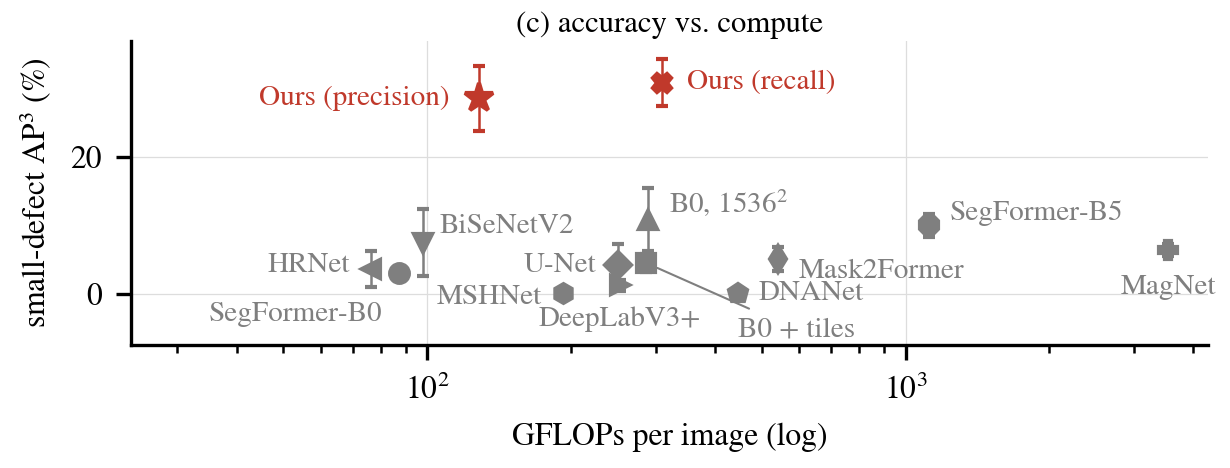
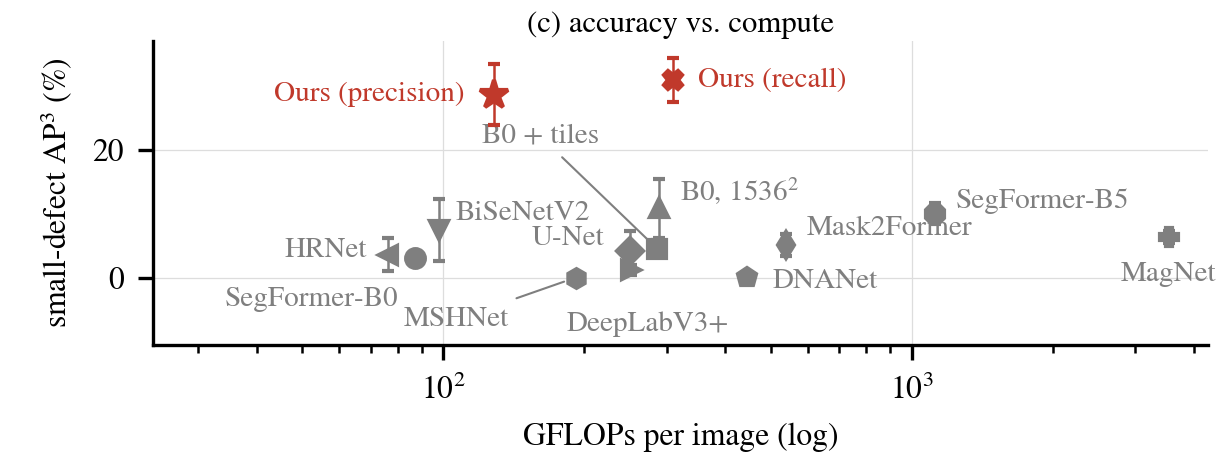
Fig. 1 and Fig. 3 scripts/figures as in the paper

diff --git a/tools/figures/fig1_framework.py b/tools/figures/fig1_framework.py
@@ -35,7 +35,8 @@ plt.rcParams.update({"font.family": "STIXGeneral", "mathtext.fontset": "stix", "
 INK, MUTED = "#1f1f1f", "#6b6b6b"
 LOW, NAT, SIZE, REP, GT = "#2f66b3", "#7a4fc4", "#e07b1a", "#c8323c", "#2ca25f"
 ALL = "#8c510a"  # s3,4 targets (all defects); kept apart from the GT green
-NETF = "#e3ecf8"
+NETF = "#eceef1"
+NETC = "#4d5563"  # the one shared network: neutral, identical everywhere (paths carry the view colour)
 DATA = "outputs/figures/fig1_data"
 
 
@@ -75,7 +76,7 @@ def heat(p, gamma=1.0):
     return plt.get_cmap("inferno")(np.clip(p, 0, 1) ** gamma)[..., :3]
 
 
-def net(ax, x, y, s=1.0, c=LOW, label=True, stages=True):
+def net(ax, x, y, s=1.0, c=NETC, label=True, stages=True):
     """Shared segmenter icon: 4 encoder stages (shrinking), all-MLP decoder, main head."""
     hs = [0.62, 0.50, 0.38, 0.28]
     xx = x
@@ -176,21 +177,21 @@ def draw(out_dir):
     # one shared network
     nx, ny = 1.55, 2.98
     xe = net(ax, nx, ny, 0.95, label=False)
-    ax.text((nx + xe) / 2, ny + 0.38, "one MiT-B0 segmenter for both views", ha="center", va="bottom", fontsize=LAB, color=LOW)
+    ax.text((nx + xe) / 2, ny + 0.38, "one MiT-B0 segmenter for both views", ha="center", va="bottom", fontsize=LAB, color=NETC)
     seg(ax, [(wx + ww, wy + wh / 2), (nx - 0.03, wy + wh / 2)], c=LOW)
     seg(ax, [(cx_n + cs_n, cy_n + cs_n * 0.8), (1.43, cy_n + cs_n * 0.8), (1.43, ny - 0.12), (nx - 0.03, ny - 0.12)],
         c=NAT)
     # main head (logit z) -> gated logit fusion with the stage-head logits z1-z4 -> size-aware loss on the fused logit
     hb_x, hb_w = xe + 0.08, 0.30
-    rbox(ax, hb_x, ny - 0.11, hb_w, 0.22, fc=NETF, ec=LOW)
-    ax.text(hb_x + hb_w / 2, ny, "head", ha="center", va="center", fontsize=SMALL, color=LOW, zorder=5)
-    seg(ax, [(xe, ny), (hb_x - 0.01, ny)], c=LOW)
+    rbox(ax, hb_x, ny - 0.11, hb_w, 0.22, fc=NETF, ec=NETC)
+    ax.text(hb_x + hb_w / 2, ny, "head", ha="center", va="center", fontsize=SMALL, color=NETC, zorder=5)
+    seg(ax, [(xe, ny), (hb_x - 0.01, ny)], c=NETC)
     fb_x, fb_w = hb_x + hb_w + 0.13, 0.56
-    rbox(ax, fb_x, ny - 0.15, fb_w, 0.30, fc="white", ec=LOW, lw=0.9)
-    ax.text(fb_x + fb_w / 2, ny, "gated logit\nfusion", ha="center", va="center", fontsize=SMALL, color=LOW, zorder=5,
+    rbox(ax, fb_x, ny - 0.15, fb_w, 0.30, fc="white", ec=NETC, lw=0.9)
+    ax.text(fb_x + fb_w / 2, ny, "gated logit\nfusion", ha="center", va="center", fontsize=SMALL, color=NETC, zorder=5,
             linespacing=0.95)
-    seg(ax, [(hb_x + hb_w, ny), (fb_x - 0.01, ny)], c=LOW)
-    ax.text(hb_x + hb_w + 0.065, ny + 0.03, "$z$", ha="center", va="bottom", fontsize=SMALL, color=LOW)
+    seg(ax, [(hb_x + hb_w, ny), (fb_x - 0.01, ny)], c=NETC)
+    ax.text(hb_x + hb_w + 0.065, ny + 0.03, "$z$", ha="center", va="bottom", fontsize=SMALL, color=NETC)
     tx, ty, ts = 3.70, 2.44, 0.66
     img(ax, wblend(T["native"], T["native_w"], T["native_g"]), tx, ty, ts, ts, ec=SIZE, lw=1.0)
     seg(ax, [(fb_x + fb_w, ny), (tx - 0.02, ny)], c=SIZE)
@@ -215,8 +216,10 @@ def draw(out_dir):
     ax.text(lx, sy + st, "stage-head targets", fontsize=SMALL, color=MUTED, va="top")
     # the stage-head logits z1-z4 enter the gated fusion (used at inference too)
     fx0, fy0, hx_ = sxs[3] + 0.10, ny - 0.40, fb_x + fb_w / 2
-    seg(ax, [(fx0, fy0), (hx_, fy0), (hx_, ny - 0.16)], c=LOW, lw=0.8)
-    ax.text(fx0 + 0.04, fy0 - 0.02, "stage logits $z_1$\u2013$z_4$", fontsize=SMALL, color=LOW, va="top", ha="left")
+    seg(ax, [(fx0, fy0), (hx_, fy0), (hx_, ny - 0.16)], c=NETC, lw=0.8)
+    ax.text(fx0 + 0.04, fy0 + 0.02, "$z_1$\u2013$z_4$", fontsize=SMALL, color=NETC, va="bottom", ha="left")
+    ax.text(hx_ - 0.05, fy0 + 0.15, "$z_{1,2}$: evidence\n$z_{3,4}$: gate", fontsize=SMALL, color=NETC, va="center",
+            ha="right", linespacing=1.0)
     ax.text(lx, sy + 0.17, "$s_{1,2}$: small defects", fontsize=SMALL, color=SIZE, va="center")
     ax.text(lx, sy + 0.01, "$s_{3,4}$: all defects", fontsize=SMALL, color=ALL, va="bottom")
 
@@ -292,7 +295,7 @@ def draw(out_dir):
     ax.text(ix, iy + ih + 0.04, "input image", fontsize=LAB, va="bottom")
     ly = iy + ih / 2
     gx0n = ix + iw + 0.36
-    xe = net(ax, gx0n, ly, 0.5, LOW, label=False, stages=False)
+    xe = net(ax, gx0n, ly, 0.5, NETC, label=False, stages=False)
     seg(ax, [(ix + iw, ly), (gx0n - 0.02, ly)], c=LOW)
     ax.text((gx0n + xe) / 2, iy - 0.05, "Global Sight (L)\nsame MiT-B0", fontsize=LAB, color=LOW, ha="center", va="top",
             linespacing=1.0)
@@ -348,7 +351,7 @@ def draw(out_dir):
     bx1, by0, by1 = wbox(px, pw)
     for yb_, yz_ in ((by1, zy0 + zs), (by0, zy0)):
         ax.plot([bx1, zx0], [yb_, yz_], color=NAT, lw=0.7, zorder=8)
-    xe2 = net(ax, zx0 + zs + 0.24, zy0 + zs / 2, 0.5, LOW, label=False, stages=False)  # same network icon/colour
+    xe2 = net(ax, zx0 + zs + 0.24, zy0 + zs / 2, 0.5, NETC, label=False, stages=False)  # same network icon/colour
     seg(ax, [(zx0 + zs, zy0 + zs / 2), (zx0 + zs + 0.22, zy0 + zs / 2)], c=NAT)
     ax.text((zx0 + zs + 0.24 + xe2) / 2, iy - 0.05, "Native Sight (S)\nsame MiT-B0", fontsize=LAB, color=NAT, ha="center",
             va="top", linespacing=1.0)
@@ -369,7 +372,8 @@ def draw(out_dir):
     mx, my_, mr = ox + cz + 0.36, ctr, 0.125
     ring(ax, mx, my_, mr, c=INK, lw=0.8)
     ax.text(mx, my_, "max", ha="center", va="center", fontsize=SMALL, color=INK)
-    ax.text(mx, my_ - mr - 0.03, "pixel-wise, (4)", ha="center", va="top", fontsize=SMALL, color=MUTED)
+    ax.text(mx, my_ - mr - 0.03, "pixel-wise (4);\n$p_S$: $\\times1$ in $M$,\n$\\times0.5$ outside", ha="center", va="top",
+            fontsize=SMALL, color=MUTED, linespacing=1.0)
     seg(ax, [(ox + cz, yt + cz / 2), (mx - mr * 0.75, my_ + mr * 0.66)], c=LOW)
     seg(ax, [(ox + cz, yb + cz / 2), (mx - mr * 0.75, my_ - mr * 0.66)], c=NAT)
     fx_ = mx + mr + 0.24

diff --git a/tools/figures/fig1_data.py b/tools/figures/fig1_data.py
@@ -106,12 +106,12 @@ def step_replay():
 def step_pick():
     """Inference example of the final model (test split by default, --split), chosen for visibility: among small defects (< Q33
     area) that the Global Sight Track misses (max p_L < 0.5) and the precision mode finds (max p >= 0.9), in images
-    with fewer than 10 defect components (an uncluttered input) and no other defect in its 128-px zoom window,
+    with 7-13 defect components and no large defect inside its 128-px zoom window,
     the one with the highest local contrast
     |mean inside - mean of a 2-6 px ring| / std(ring). Rule set on 2026-10-10 after seeing the previous pick
     (largest recovered area: a defect hardly visible in the crop); written to fig1_data/pick.json."""
     q33 = json.load(open(f"{EXP}/metrics_val.json"))["component_size_edges"][0]
-    best = None
+    cands = []
     for r in read_split(f"data/splits/vision/{SPLIT}.csv"):
         fl = Path(f"{EXP}/predictions/{SPLIT}/{r['id']}.npz")
         fp = Path(f"{EXP}/predictions/{SPLIT}_zoom_main_masked_d16_o0.5_t0.02_n32/{r['id']}.npz")
@@ -119,7 +119,7 @@ def step_pick():
             continue
         img, g = load(r)
         lab, n = ndimage.label(g, structure=S8)
-        if n == 0 or n >= 10:
+        if n < 7 or n > 13:  # about ten defects in the image
             continue
         L = np.load(fl)["pmain"].astype(np.float32)
         P = np.load(fp)["pmain"].astype(np.float32)
@@ -130,7 +130,10 @@ def step_pick():
                 continue
             cy_, cx_ = (sl[0].start + sl[0].stop) // 2, (sl[1].start + sl[1].stop) // 2
             win = lab[max(cy_ - 64, 0):cy_ + 64, max(cx_ - 64, 0):cx_ + 64]  # the zoomed window of Fig. 1 (c)
-            if np.setdiff1d(np.unique(win), [0, k]).size:  # another defect in the window would blur the example
+            ids_w = np.setdiff1d(np.unique(win), [0])
+            n_win = ids_w.size
+            areas = ndimage.sum(np.ones_like(lab), lab, ids_w) / g.size
+            if (areas >= q33).any():  # no large defect inside the zoom window (not cluttered)
                 continue
             y0, x0 = max(sl[0].start - 12, 0), max(sl[1].start - 12, 0)
             y1, x1 = sl[0].stop + 12, sl[1].stop + 12
@@ -141,8 +144,10 @@ def step_pick():
                 continue
             gw = gray[y0:y1, x0:x1]
             con = abs(gw[mm].mean() - gw[ring].mean()) / (gw[ring].std() + 1.0)
-            if best is None or (con, r["id"]) > (best[0], best[1]):
-                best = (float(con), r["id"], k, float(L[sl][m].max()), float(P[sl][m].max()))
+            cands.append((float(con), r["id"], k, float(L[sl][m].max()), float(P[sl][m].max()), int(n), int(n_win)))
+    cands.sort(reverse=True)
+    json.dump(cands[:10], open(OUT / "pick_candidates.json", "w"))
+    best = cands[0]
     print("pick:", best)
     json.dump({"id": best[1], "component": best[2], "p_L": best[3], "p": best[4]}, open(OUT / "pick.json", "w"))
 

diff --git a/tools/figures/fig3_tradeoff.py b/tools/figures/fig3_tradeoff.py
@@ -46,10 +46,10 @@ POINTS = [
 # label offsets (points) so that neighbouring labels do not overlap
 OFFSET = {"SegFormer-B0": (-4, -10, "right"), "HRNet": (-5, 1, "right"), "BiSeNetV2": (4, 4, "left"),
           "Ours (precision)": (-7, 0, "right"), "Ours (recall)": (6, 0, "left"),
-          "B0 + tiles": (22, -16, "left"), "B0, $1536^2$": (5, 4, "left"), "Mask2Former": (5, -3, "left"),
-          "MSHNet": (-5, -1, "right"), "DeepLabV3+": (0, -8, "center"), "DNANet": (5, 0, "left"), "U-Net": (-5, 0, "right"),
-          "SegFormer-B5": (5, 3, "left"), "MagNet": (0, -9, "center")}
-LEADER = {"B0 + tiles"}
+          "B0 + tiles": (-14, 27, "right"), "B0, $1536^2$": (5, 4, "left"), "Mask2Former": (5, 4, "left"),
+          "MSHNet": (-16, -10, "right"), "DeepLabV3+": (4, -13, "center"), "DNANet": (6, -1, "left"),
+          "U-Net": (-6, 3, "right"), "SegFormer-B5": (5, 3, "left"), "MagNet": (0, -9, "center")}
+LEADER = {"B0 + tiles", "MSHNet"}
 
 
 def main():
@@ -77,7 +77,7 @@ def main():
         print(f"{label:26s} GFLOPs={g:7.1f} y={mu:5.1f}+-{sd:.1f} (n={len(v)})")
     ax.set_xscale("log")
     ax.set_xlim(left=24)  # room for the labels left of the lightest models
-    ax.set_ylim(bottom=-7.5, top=37)
+    ax.set_ylim(bottom=-10.5, top=37)
     ax.set_xlabel("GFLOPs per image (log)")
     ax.set_ylabel("small-defect AP" + (f"$^{{{a.tol}}}$" if a.tol else "") + " (%)")
     ax.grid(True, which="major", lw=0.3, color="#dddddd")
